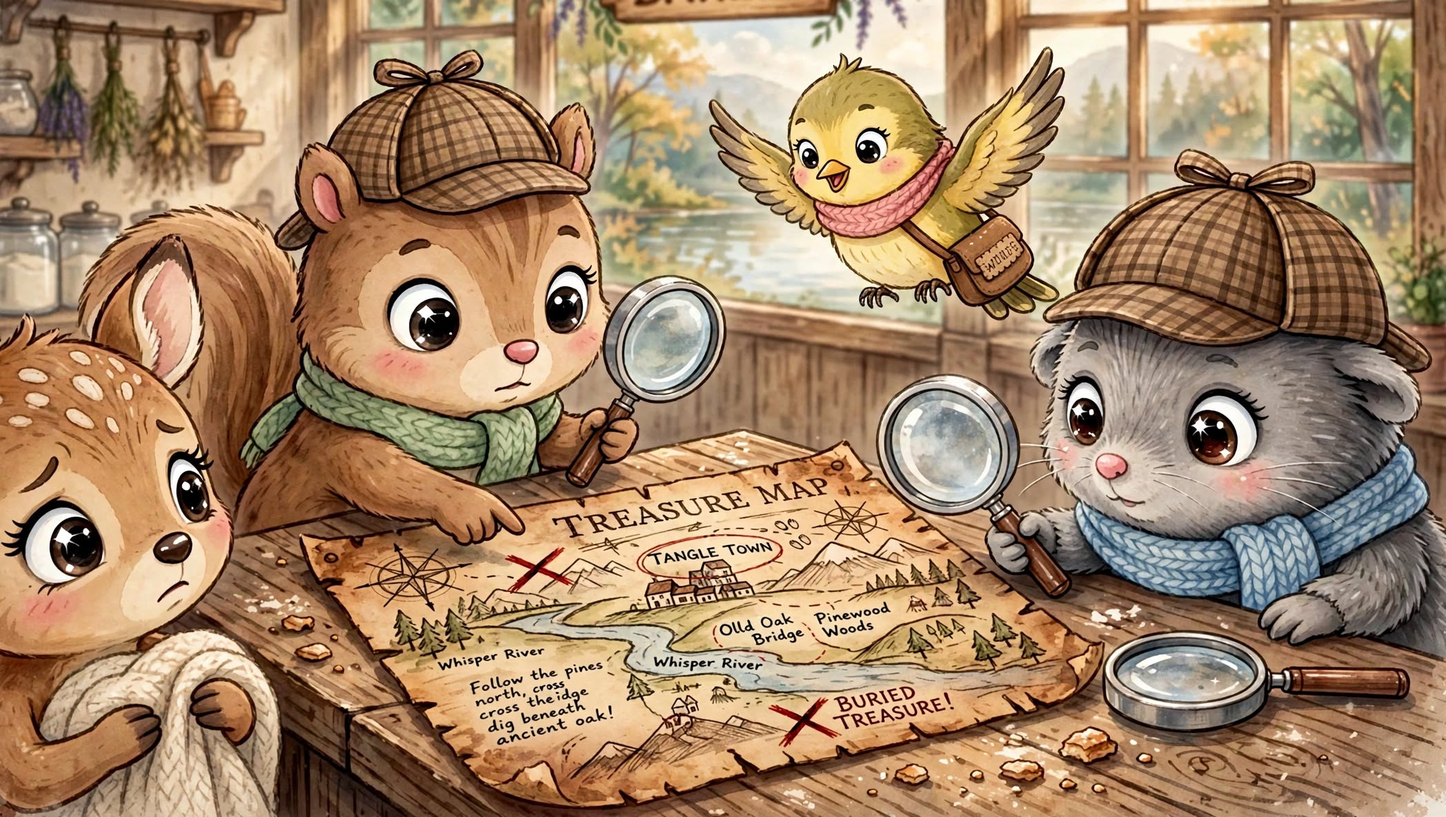
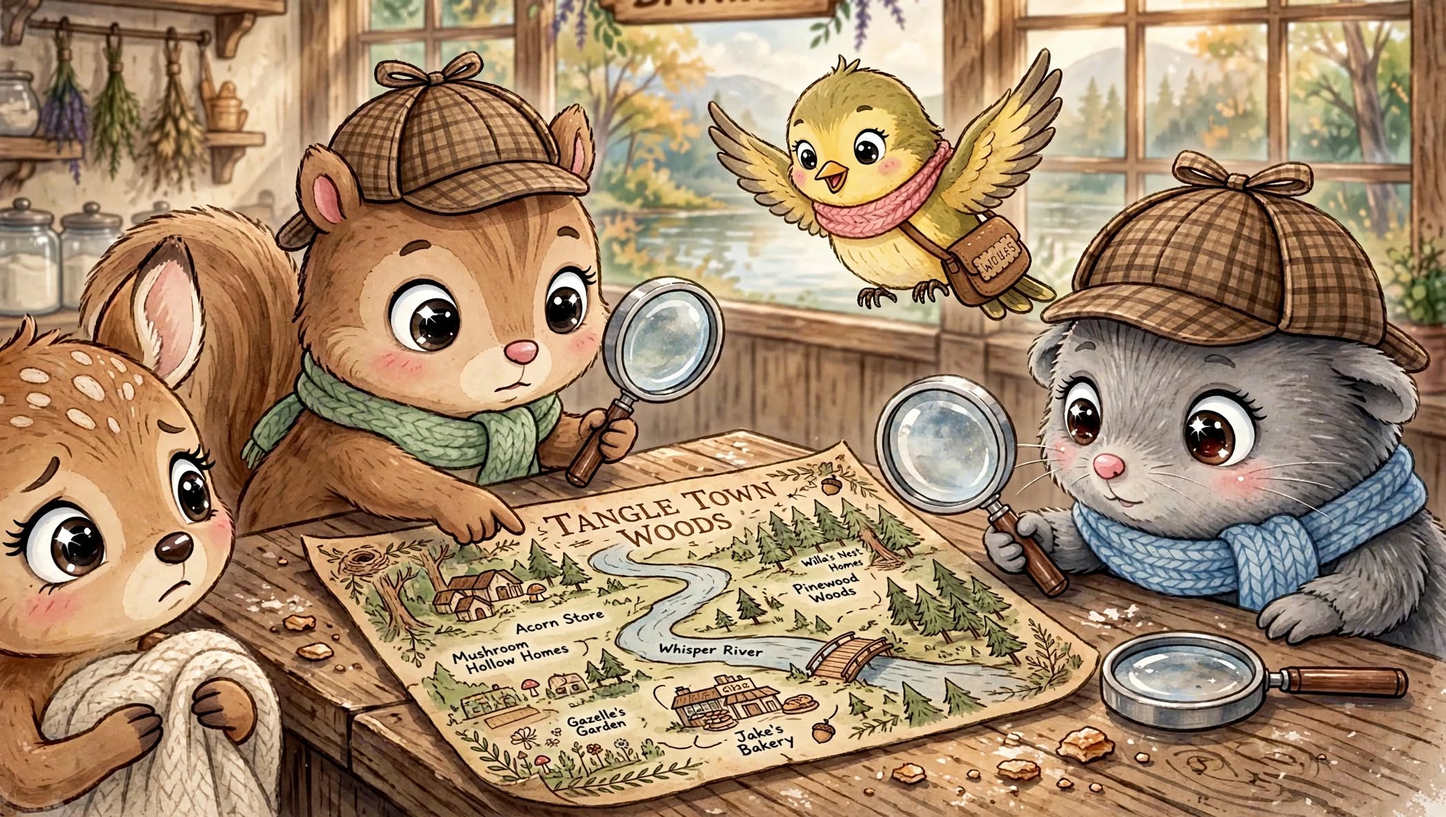
Update Flapping Cap scene 1/5 dialogue and replace scene 2 image

diff --git a/src/data/gameData.ts b/src/data/gameData.ts
@@ -325,10 +325,10 @@ export const mysteries: Mystery[] = [
         title: 'Scene 1',
         image: '/stories/ap/scene1.jpg',
         dialogue: [
-          { speaker: 'Farah the Fawn', text: 'Oh no! My cap!', emotion: 'worried' },
-          { speaker: 'narrator', text: 'Farah lost her cap at the Acorn Store.' },
-          { speaker: 'Zap the Squirrel', text: 'I can help you!', emotion: 'excited' },
-          { speaker: 'Mitzy the Mole', text: 'Let us see the map.', emotion: 'thinking' }
+            { speaker: 'Farah the Fawn', text: "Oh no, my mama's cap! I lost it in the woods.", emotion: 'worried' },
+            { speaker: 'Willa the Warbler', text: "Farah lost her Mama's cap when she took a nap.", emotion: 'thinking' },
+            { speaker: 'Zap the Squirrel', text: 'I can help you!', emotion: 'excited' },
+            { speaker: 'Mitzy the Mole', text: "Let's see the map.", emotion: 'thinking' }
         ]
       },
       {
@@ -375,7 +375,7 @@ export const mysteries: Mystery[] = [
         dialogue: [
           { speaker: 'Zap the Squirrel', text: 'Zap! I got the cap!', emotion: 'happy' },
           { speaker: 'Mitzy the Mole', text: 'Now it is in your lap!', emotion: 'happy' },
-          { speaker: 'Farah the Fawn', text: 'You found my cap!', emotion: 'happy' }
+            { speaker: 'Farah the Fawn', text: "You found my mama's cap!", emotion: 'happy' }
         ]
       },
       {

diff --git a/src/data/characterAvatars.ts b/src/data/characterAvatars.ts
@@ -222,6 +222,7 @@ export function getCharacterAvatar(speaker: string, narratorId?: string): Charac
   if (speakerLower.includes('zap')) return characterAvatars['zap_squirrel'];
   if (speakerLower.includes('mitzy') || speakerLower.includes('mole')) return characterAvatars['mitzy_mole'];
   if (speakerLower.includes('farah') || speakerLower.includes('fawn')) return characterAvatars['farah_fawn'];
+  if (speakerLower.includes('willa') || speakerLower.includes('warbler')) return characterAvatars['willa_warbler'];
   
   // Generic animal matches (fallback)
   if (speakerLower.includes('snake')) return characterAvatars['jake_snake'];
